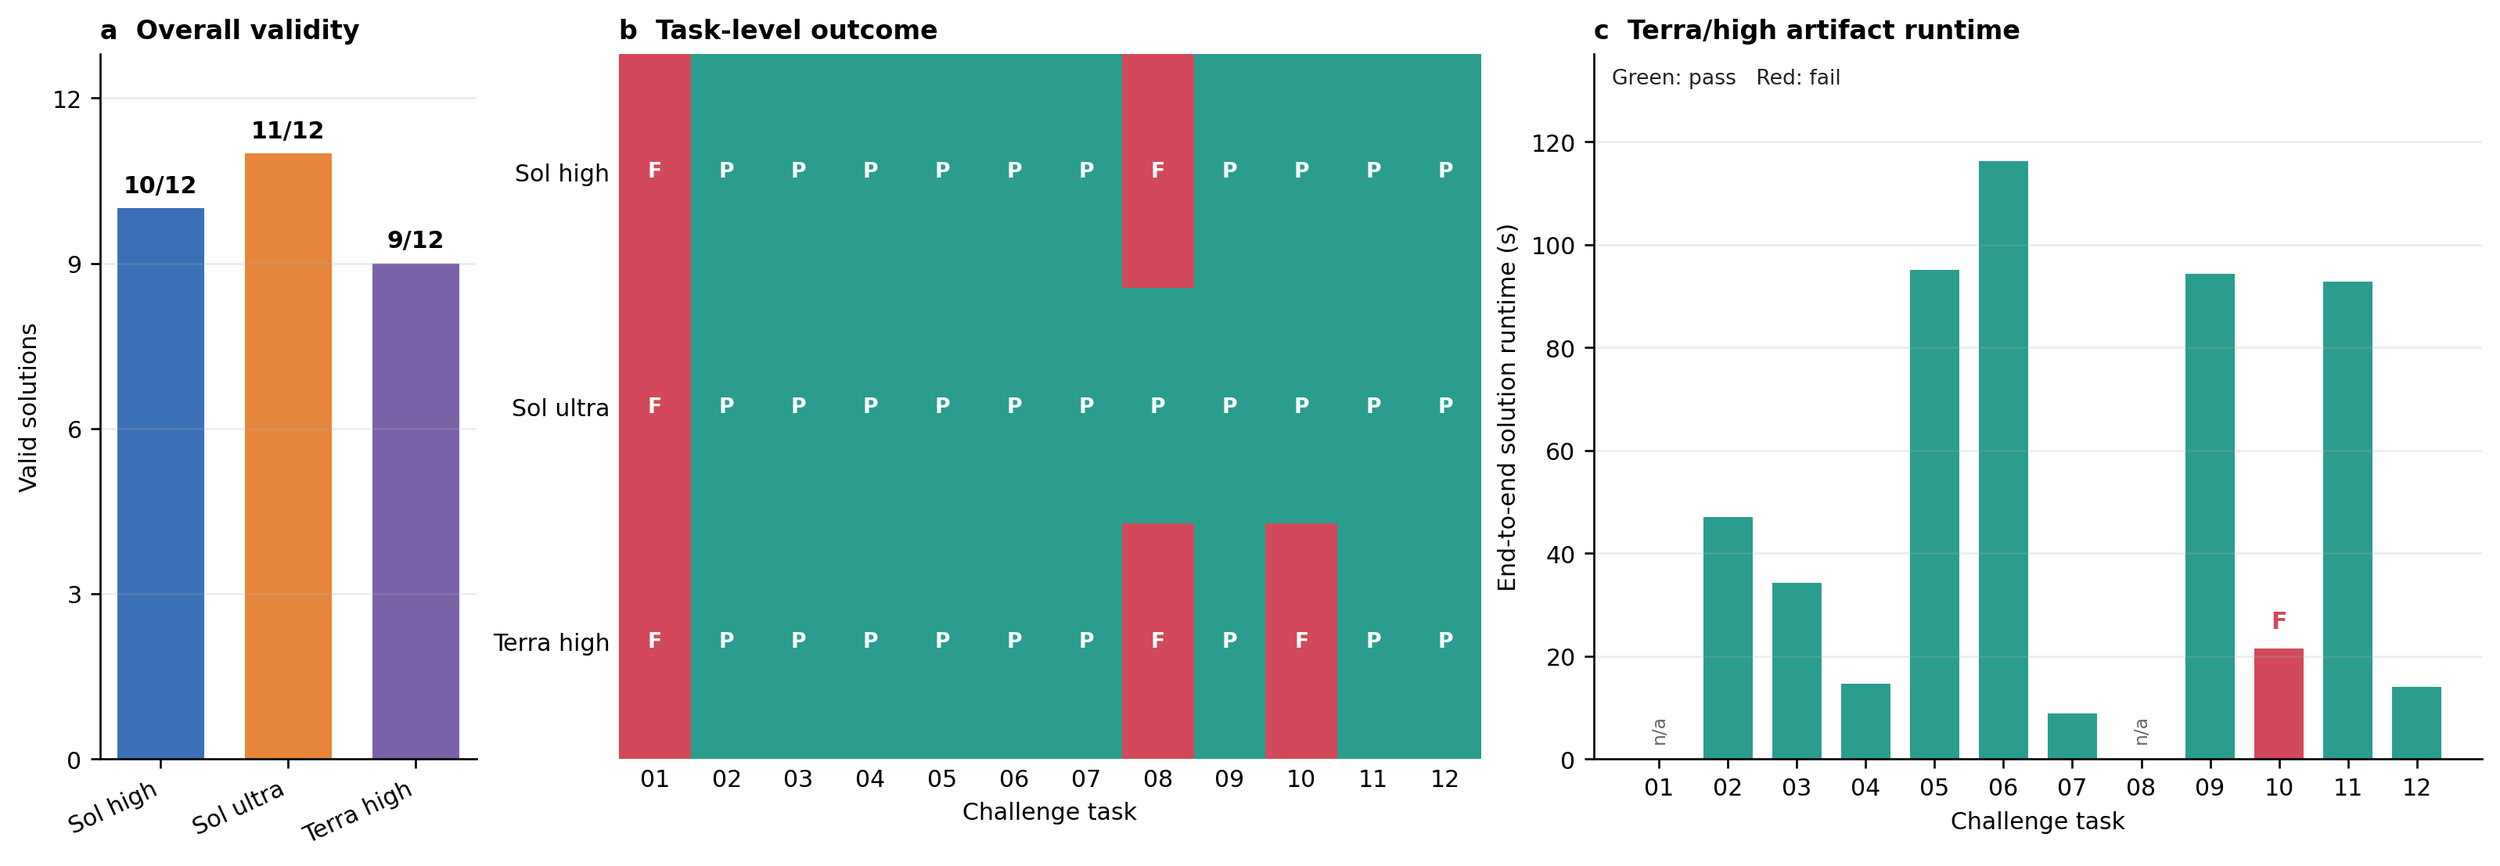
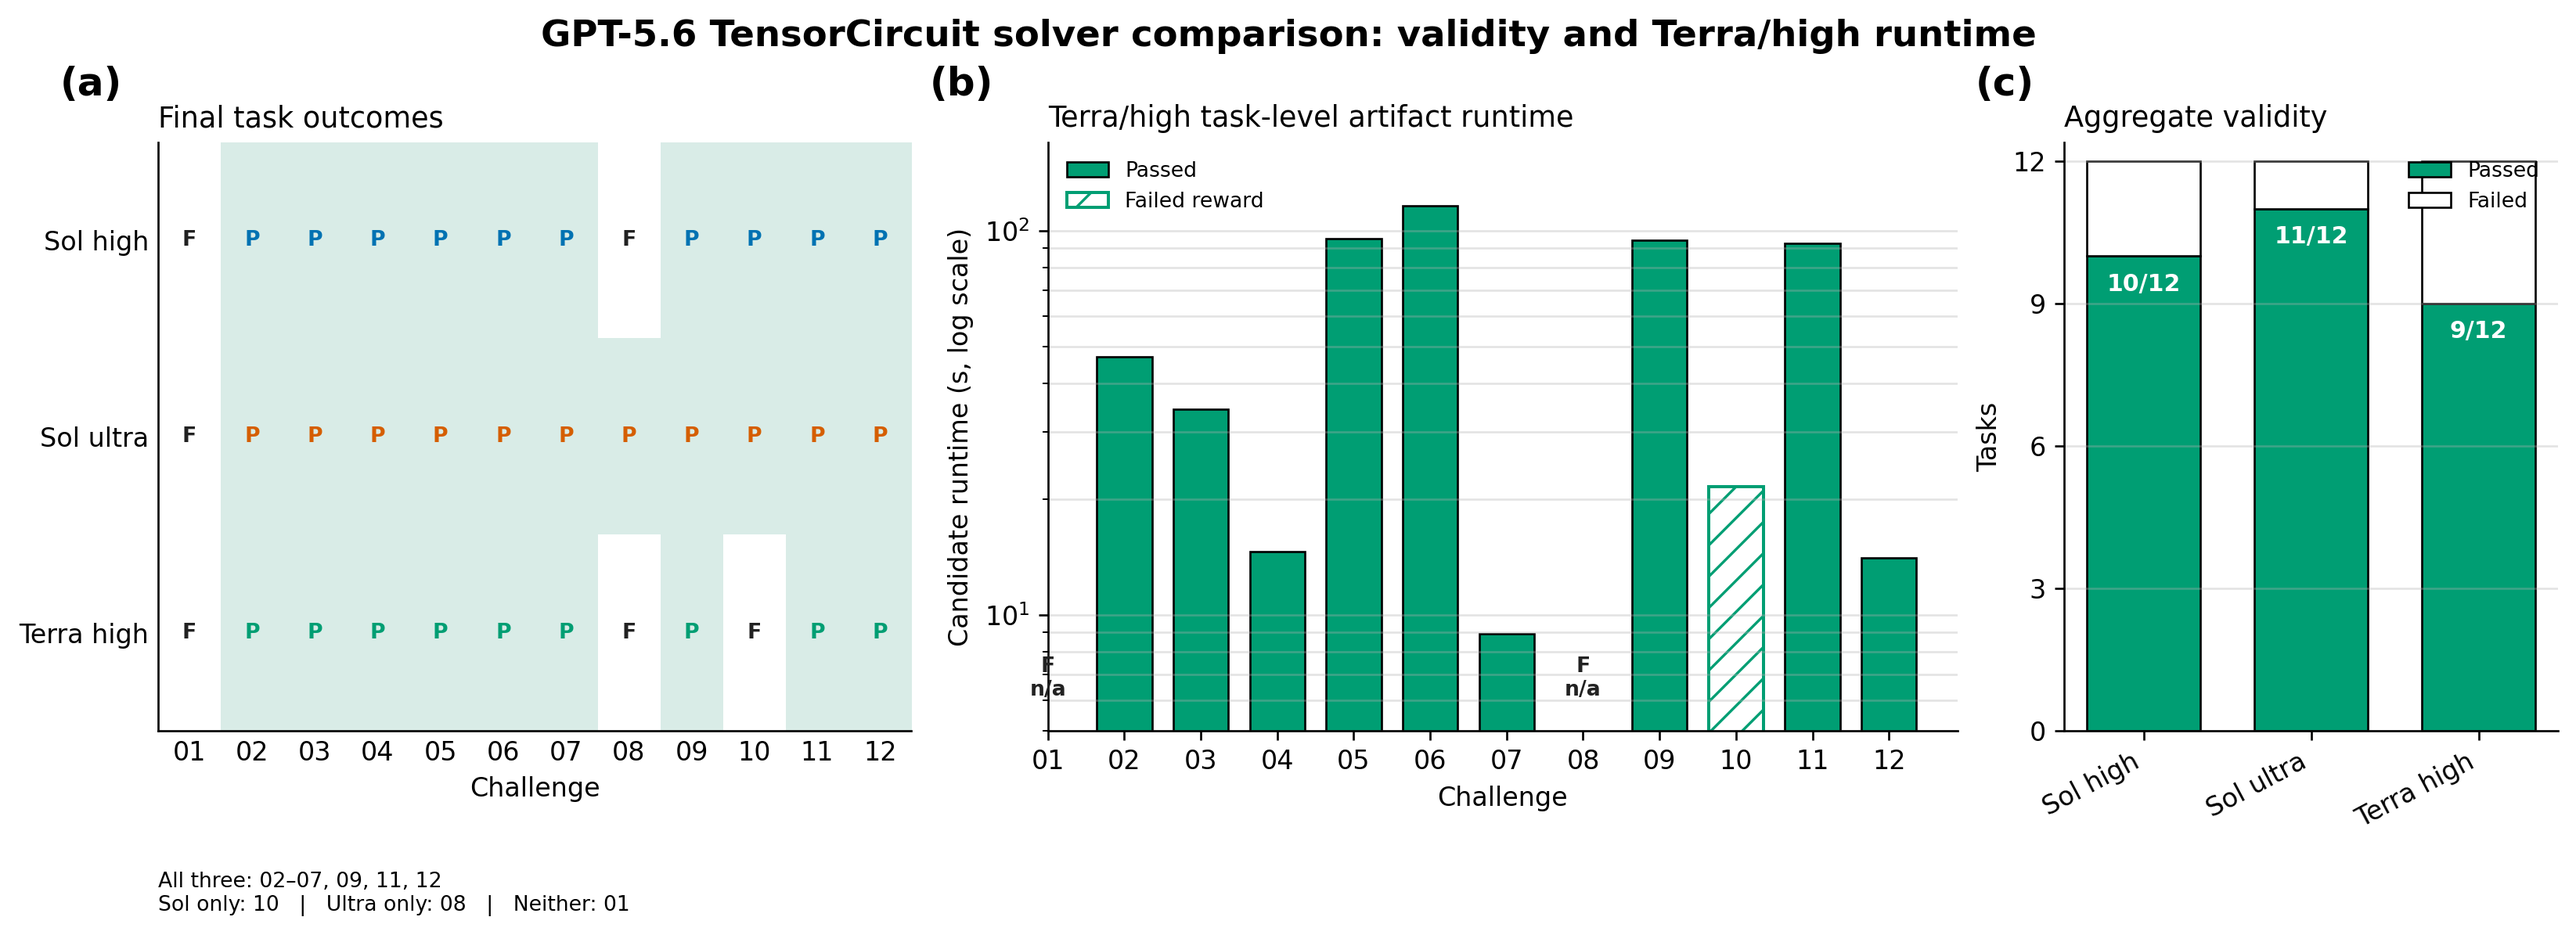
Align Terra benchmark figures with ORBIT-Q style

diff --git a/results/gpt56terra-high/tools/make_figures.py b/results/gpt56terra-high/tools/make_figures.py
@@ -11,6 +11,7 @@ matplotlib.use("Agg")
 import matplotlib.pyplot as plt
 import numpy as np
 from matplotlib.colors import ListedColormap
+from matplotlib.patches import Patch
 
 
 ROOT = Path(__file__).resolve().parents[1]
@@ -20,20 +21,20 @@ SUMMARY = json.loads((ROOT / "summary.json").read_text())
 COMPARISON = json.loads((ROOT / "model-comparison.json").read_text())
 TASKS = np.arange(1, 13)
 
-PASS = "#2A9D8F"
-FAIL = "#D1495B"
-BLUE = "#3B6FB6"
-ORANGE = "#E6863B"
-PURPLE = "#7B61A8"
-GRAY = "#D9D9D9"
+PASS = "#009E73"
+BLUE = "#0072B2"
+ORANGE = "#D55E00"
+LIGHT_BLUE = "#56B4E9"
+GRAY = "#555555"
+PALE_PASS = "#D9ECE7"
 TEXT = "#222222"
 
 plt.rcParams.update(
     {
         "font.family": "DejaVu Sans",
-        "font.size": 9,
-        "axes.titlesize": 10,
-        "axes.labelsize": 9,
+        "font.size": 10,
+        "axes.titlesize": 11,
+        "axes.labelsize": 10,
         "axes.spines.top": False,
         "axes.spines.right": False,
         "figure.dpi": 120,
@@ -48,57 +49,64 @@ def save(fig: plt.Figure, stem: str) -> None:
 
 
 def outcome_figure() -> None:
-    fig = plt.figure(figsize=(13.2, 4.5), constrained_layout=True)
-    grid = fig.add_gridspec(1, 3, width_ratios=[0.72, 1.65, 1.7])
+    fig = plt.figure(figsize=(13.6, 4.8), constrained_layout=True)
+    grid = fig.add_gridspec(1, 3, width_ratios=[1.45, 1.75, 0.95])
 
     runs = COMPARISON["runs"]
     labels = [run["label"] for run in runs]
-    colors = [BLUE, ORANGE, PURPLE]
+    colors = [BLUE, ORANGE, PASS]
 
     ax0 = fig.add_subplot(grid[0, 0])
-    counts = [len(run["passes"]) for run in runs]
-    bars = ax0.bar(np.arange(3), counts, color=colors, width=0.68)
-    for bar, count in zip(bars, counts):
-        ax0.text(bar.get_x() + bar.get_width() / 2, count + 0.2, f"{count}/12", ha="center", va="bottom", weight="bold")
-    ax0.set_ylim(0, 12.8)
-    ax0.set_yticks([0, 3, 6, 9, 12])
-    ax0.set_xticks(np.arange(3), labels, rotation=25, ha="right")
-    ax0.set_ylabel("Valid solutions")
-    ax0.set_title("a  Overall validity", loc="left", weight="bold")
-    ax0.grid(axis="y", alpha=0.22)
+    matrix = np.array([[1 if task in run["passes"] else 0 for task in TASKS] for run in runs])
+    ax0.imshow(matrix, aspect="auto", cmap=ListedColormap(["#FFFFFF", PALE_PASS]), vmin=0, vmax=1)
+    for row, color in enumerate(colors):
+        for col in range(matrix.shape[1]):
+            ax0.text(col, row, "P" if matrix[row, col] else "F", color=color if matrix[row, col] else TEXT, ha="center", va="center", weight="bold", fontsize=8)
+    ax0.set_xticks(np.arange(12), [f"{task:02d}" for task in TASKS])
+    ax0.set_yticks(np.arange(3), labels)
+    ax0.tick_params(length=0)
+    ax0.set_xlabel("Challenge")
+    ax0.set_title("Final task outcomes", loc="left")
+    ax0.text(-0.13, 1.08, "(a)", transform=ax0.transAxes, fontsize=15, weight="bold")
+    ax0.text(0, -0.24, "All three: 02–07, 09, 11, 12\nSol only: 10   |   Ultra only: 08   |   Neither: 01", transform=ax0.transAxes, fontsize=8, va="top")
 
     ax1 = fig.add_subplot(grid[0, 1])
-    matrix = np.array([[1 if task in run["passes"] else 0 for task in TASKS] for run in runs])
-    ax1.imshow(matrix, aspect="auto", cmap=ListedColormap([FAIL, PASS]), vmin=0, vmax=1)
-    for row in range(matrix.shape[0]):
-        for col in range(matrix.shape[1]):
-            ax1.text(col, row, "P" if matrix[row, col] else "F", color="white", ha="center", va="center", weight="bold", fontsize=8)
-    ax1.set_xticks(np.arange(12), [f"{task:02d}" for task in TASKS])
-    ax1.set_yticks(np.arange(3), labels)
-    ax1.tick_params(length=0)
-    ax1.set_xlabel("Challenge task")
-    ax1.set_title("b  Task-level outcome", loc="left", weight="bold")
-    for spine in ax1.spines.values():
-        spine.set_visible(False)
-
-    ax2 = fig.add_subplot(grid[0, 2])
     rows = SUMMARY["tasks"]
     runtime = np.array([row["runtime_sec"] if row["runtime_sec"] >= 0 else np.nan for row in rows])
     passed = np.array([row["reward"] == 1 for row in rows])
-    bars = ax2.bar(TASKS, np.nan_to_num(runtime), color=np.where(passed, PASS, FAIL), width=0.72)
-    for task, value in zip(TASKS, runtime):
-        if np.isnan(value):
-            ax2.text(task, 3.0, "n/a", ha="center", va="bottom", rotation=90, fontsize=7, color="#666666")
+    ax1.bar(TASKS[passed], runtime[passed], color=PASS, edgecolor="black", linewidth=0.8, width=0.72, label="Passed")
+    measured_fail = (~passed) & np.isfinite(runtime)
+    ax1.bar(TASKS[measured_fail], runtime[measured_fail], color="white", edgecolor=PASS, hatch="//", linewidth=1.2, width=0.72, label="Failed reward")
     for task, value, ok in zip(TASKS, runtime, passed):
-        if not ok and not np.isnan(value):
-            ax2.text(task, value + 3.0, "F", ha="center", va="bottom", color=FAIL, weight="bold")
-    ax2.set_xticks(TASKS, [f"{task:02d}" for task in TASKS])
-    ax2.set_ylim(0, max(np.nanmax(runtime) * 1.18, 125))
-    ax2.set_xlabel("Challenge task")
-    ax2.set_ylabel("End-to-end solution runtime (s)")
-    ax2.set_title("c  Terra/high artifact runtime", loc="left", weight="bold")
-    ax2.grid(axis="y", alpha=0.22)
-    ax2.text(0.02, 0.98, "Green: pass   Red: fail", transform=ax2.transAxes, va="top", fontsize=8, color=TEXT)
+        if not ok and np.isnan(value):
+            ax1.text(task, 6.0, "F\nn/a", ha="center", va="bottom", color=TEXT, fontsize=8, weight="bold")
+    ax1.set_yscale("log")
+    ax1.set_ylim(5, 170)
+    ax1.set_xticks(TASKS, [f"{task:02d}" for task in TASKS])
+    ax1.set_xlabel("Challenge")
+    ax1.set_ylabel("Candidate runtime (s, log scale)")
+    ax1.set_title("Terra/high task-level artifact runtime", loc="left")
+    ax1.text(-0.13, 1.08, "(b)", transform=ax1.transAxes, fontsize=15, weight="bold")
+    ax1.legend(frameon=False, loc="upper left", fontsize=8)
+    ax1.grid(axis="y", alpha=0.35, which="both")
+
+    ax2 = fig.add_subplot(grid[0, 2])
+    counts = np.array([len(run["passes"]) for run in runs])
+    x = np.arange(3)
+    ax2.bar(x, counts, color=PASS, edgecolor="black", linewidth=0.8, width=0.68, label="Passed")
+    ax2.bar(x, 12 - counts, bottom=counts, color="white", edgecolor="black", linewidth=0.8, width=0.68, label="Failed")
+    for xi, count in zip(x, counts):
+        ax2.text(xi, count - 0.35, f"{count}/12", ha="center", va="top", color="white", weight="bold", fontsize=9)
+    ax2.set_ylim(0, 12.4)
+    ax2.set_yticks([0, 3, 6, 9, 12])
+    ax2.set_xticks(x, labels, rotation=28, ha="right")
+    ax2.set_ylabel("Tasks")
+    ax2.set_title("Aggregate validity", loc="left")
+    ax2.text(-0.18, 1.08, "(c)", transform=ax2.transAxes, fontsize=15, weight="bold")
+    ax2.legend(frameon=False, loc="upper right", fontsize=8)
+    ax2.grid(axis="y", alpha=0.35)
+
+    fig.suptitle("GPT-5.6 TensorCircuit solver comparison: validity and Terra/high runtime", fontsize=14, weight="bold")
 
     save(fig, "gpt56terra-high-outcomes")
 
@@ -112,39 +120,53 @@ def resource_figure() -> None:
     output_tokens = np.array([row["n_output_tokens"] or 0 for row in rows])
     costs = np.array([row["cost_usd"] or 0 for row in rows])
     passed = np.array([row["reward"] == 1 for row in rows])
-    task_colors = np.where(passed, PASS, FAIL)
-
     fig, axes = plt.subplots(1, 3, figsize=(13.2, 4.4), constrained_layout=True)
     ax0, ax1, ax2 = axes
 
-    ax0.bar(TASKS, wall_min, color=task_colors, width=0.72)
-    ax0.axhline(30, color="#777777", linestyle="--", linewidth=1)
+    ax0.bar(TASKS[passed], wall_min[passed], color=PASS, edgecolor="black", linewidth=0.8, width=0.72)
+    ax0.bar(TASKS[~passed], wall_min[~passed], color="white", edgecolor="black", linewidth=0.8, width=0.72)
     ax0.set_xticks(TASKS, [f"{task:02d}" for task in TASKS])
-    ax0.set_xlabel("Challenge task")
+    ax0.set_xlabel("Challenge")
     ax0.set_ylabel("Agent solve time (min)")
-    ax0.set_title("a  Solver wall time", loc="left", weight="bold")
-    ax0.grid(axis="y", alpha=0.22)
+    ax0.set_title("Solver wall time", loc="left")
+    ax0.text(-0.14, 1.08, "(a)", transform=ax0.transAxes, fontsize=15, weight="bold")
+    ax0.text(0.02, 0.96, f"Total: {wall_min.sum():.1f} min", transform=ax0.transAxes, va="top")
+    ax0.legend(handles=[Patch(facecolor=PASS, edgecolor="black", label="Passed"), Patch(facecolor="white", edgecolor="black", label="Failed")], frameon=False, loc="upper right", fontsize=8)
+    ax0.grid(axis="y", alpha=0.35)
 
     scale = 1e6
-    ax1.bar(TASKS, cache_tokens / scale, color="#9EC1E6", width=0.72, label="Cache-read input")
-    ax1.bar(TASKS, noncache_tokens / scale, bottom=cache_tokens / scale, color=BLUE, width=0.72, label="Non-cache input")
-    ax1.bar(TASKS, output_tokens / scale, bottom=input_tokens / scale, color=ORANGE, width=0.72, label="Output")
+    ax1.bar(TASKS, noncache_tokens / scale, color=GRAY, edgecolor="black", linewidth=0.5, width=0.72, label="Non-cache-read prompt")
+    ax1.bar(TASKS, cache_tokens / scale, bottom=noncache_tokens / scale, color=LIGHT_BLUE, edgecolor="black", linewidth=0.5, width=0.72, label="Cache-read prompt")
+    ax1.bar(TASKS, output_tokens / scale, bottom=input_tokens / scale, color=ORANGE, edgecolor="black", linewidth=0.5, width=0.72, label="Output")
     ax1.set_xticks(TASKS, [f"{task:02d}" for task in TASKS])
-    ax1.set_xlabel("Challenge task")
-    ax1.set_ylabel("Tokens (millions)")
-    ax1.set_title("b  Solver token use", loc="left", weight="bold")
-    ax1.legend(frameon=False, fontsize=7, loc="upper left")
-    ax1.grid(axis="y", alpha=0.22)
+    ax1.set_xlabel("Challenge")
+    ax1.set_ylabel("Solving-side tokens (million)")
+    ax1.set_title("Solver token use", loc="left")
+    ax1.text(-0.14, 1.08, "(b)", transform=ax1.transAxes, fontsize=15, weight="bold")
+    ax1.text(0.02, 0.96, f"Total: {(input_tokens.sum() + output_tokens.sum()) / scale:.3f}M", transform=ax1.transAxes, va="top")
+    ax1.legend(frameon=False, fontsize=8, loc="upper left", bbox_to_anchor=(0.40, 1.0))
+    ax1.grid(axis="y", alpha=0.35)
 
-    ax2.scatter(wall_min[passed], costs[passed], s=70, color=PASS, edgecolor="white", linewidth=0.7, label="Pass", zorder=3)
-    ax2.scatter(wall_min[~passed], costs[~passed], s=70, color=FAIL, marker="X", edgecolor="white", linewidth=0.7, label="Fail", zorder=3)
-    for task, x, y in zip(TASKS, wall_min, costs):
-        ax2.annotate(f"{task:02d}", (x, y), xytext=(4, 3), textcoords="offset points", fontsize=7)
-    ax2.set_xlabel("Agent solve time (min)")
-    ax2.set_ylabel("Recorded solver cost (USD)")
-    ax2.set_title("c  Time–cost profile", loc="left", weight="bold")
-    ax2.legend(frameon=False, loc="upper left")
-    ax2.grid(alpha=0.22)
+    names = ["Sol high", "Sol ultra", "Terra high"]
+    valid = np.array([10, 11, 9])
+    solve_per_valid = np.array([19.77, 16.62, wall_min.sum() / 9])
+    cost_per_valid = np.array([2.55, 2.73, costs.sum() / 9])
+    total_cost = np.array([25.527418, 30.02, costs.sum()])
+    bubble_colors = [BLUE, ORANGE, PASS]
+    ax2.scatter(solve_per_valid, cost_per_valid, s=75 * total_cost, color=bubble_colors, edgecolor="black", linewidth=0.9, zorder=3)
+    offsets = [(32, -28), (32, 12), (-92, 10)]
+    for name, count, xval, yval, color, offset in zip(names, valid, solve_per_valid, cost_per_valid, bubble_colors, offsets):
+        ax2.annotate(f"{name}\n({count}/12)", (xval, yval), xytext=offset, textcoords="offset points", color=color, weight="bold", fontsize=9)
+    ax2.set_xlim(15.5, 24.5)
+    ax2.set_ylim(1.1, 3.05)
+    ax2.set_xlabel("Solve time per valid solution (min)")
+    ax2.set_ylabel("Cost per valid solution (USD)")
+    ax2.set_title("Configuration-level resource efficiency", loc="left")
+    ax2.text(-0.14, 1.08, "(c)", transform=ax2.transAxes, fontsize=15, weight="bold")
+    ax2.text(0.98, 0.04, "Marker area ∝ total cost", transform=ax2.transAxes, ha="right", fontsize=8)
+    ax2.grid(alpha=0.35)
+
+    fig.suptitle("GPT-5.6 Terra high agent-side resource use", fontsize=14, weight="bold")
 
     save(fig, "gpt56terra-high-agent-resource-use")
 

diff --git a/results/gpt56terra-high/README.md b/results/gpt56terra-high/README.md
@@ -14,11 +14,11 @@ performed the independent source audit.
 
 ![Terra/high outcomes](figs/gpt56terra-high-outcomes.png)
 
-Panel (a) places the run beside the previously archived GPT-5.6 Sol high and
-Sol ultra runs. Panel (b) shows exactly which tasks passed. Panel (c) reports
-the Terra candidate's measured end-to-end runtime; `n/a` means no runtime was
-produced, and the red Task 10 bar is a measured but functionally failing
-candidate.
+Panel (a) shows the task-level pass sets for the two archived Sol runs and the
+new Terra run. Panel (b) reports Terra's measured end-to-end artifact runtime;
+white hatching denotes a failed reward and `n/a` denotes no submitted runtime.
+Panel (c) summarizes valid and failed task counts using the same visual grammar
+as the main ORBIT-Q README figures.
 
 ## Protocol
 
